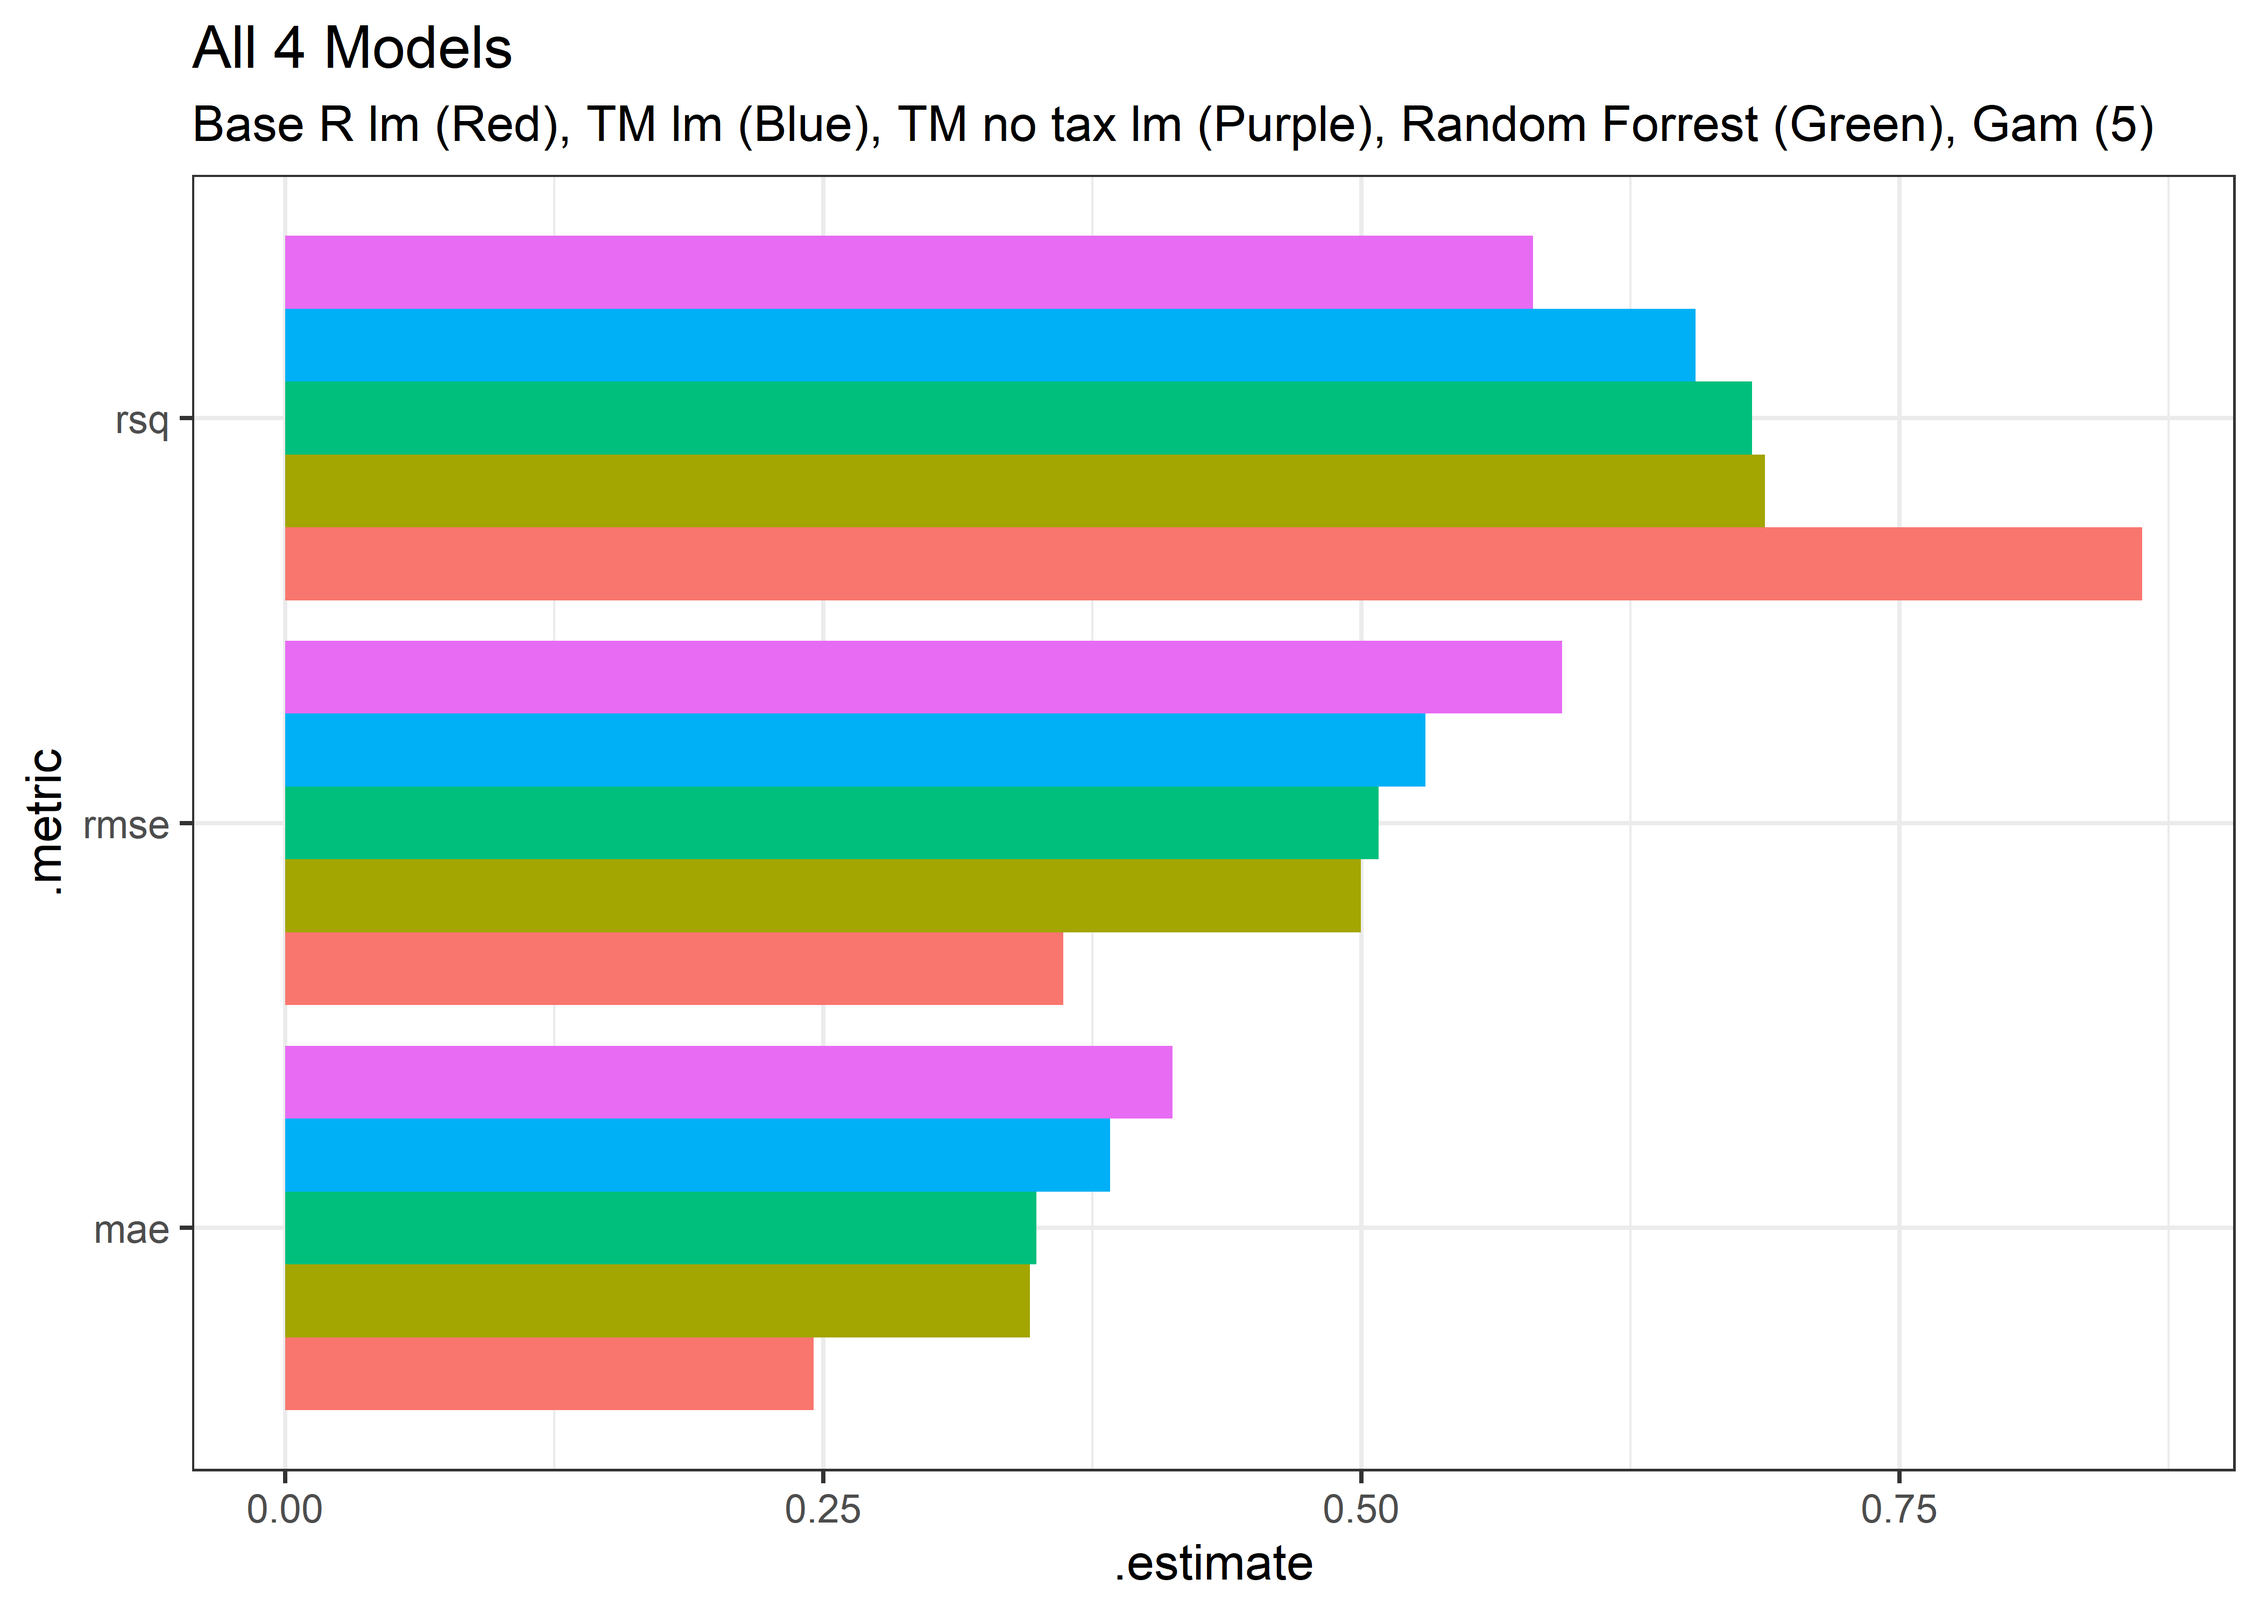
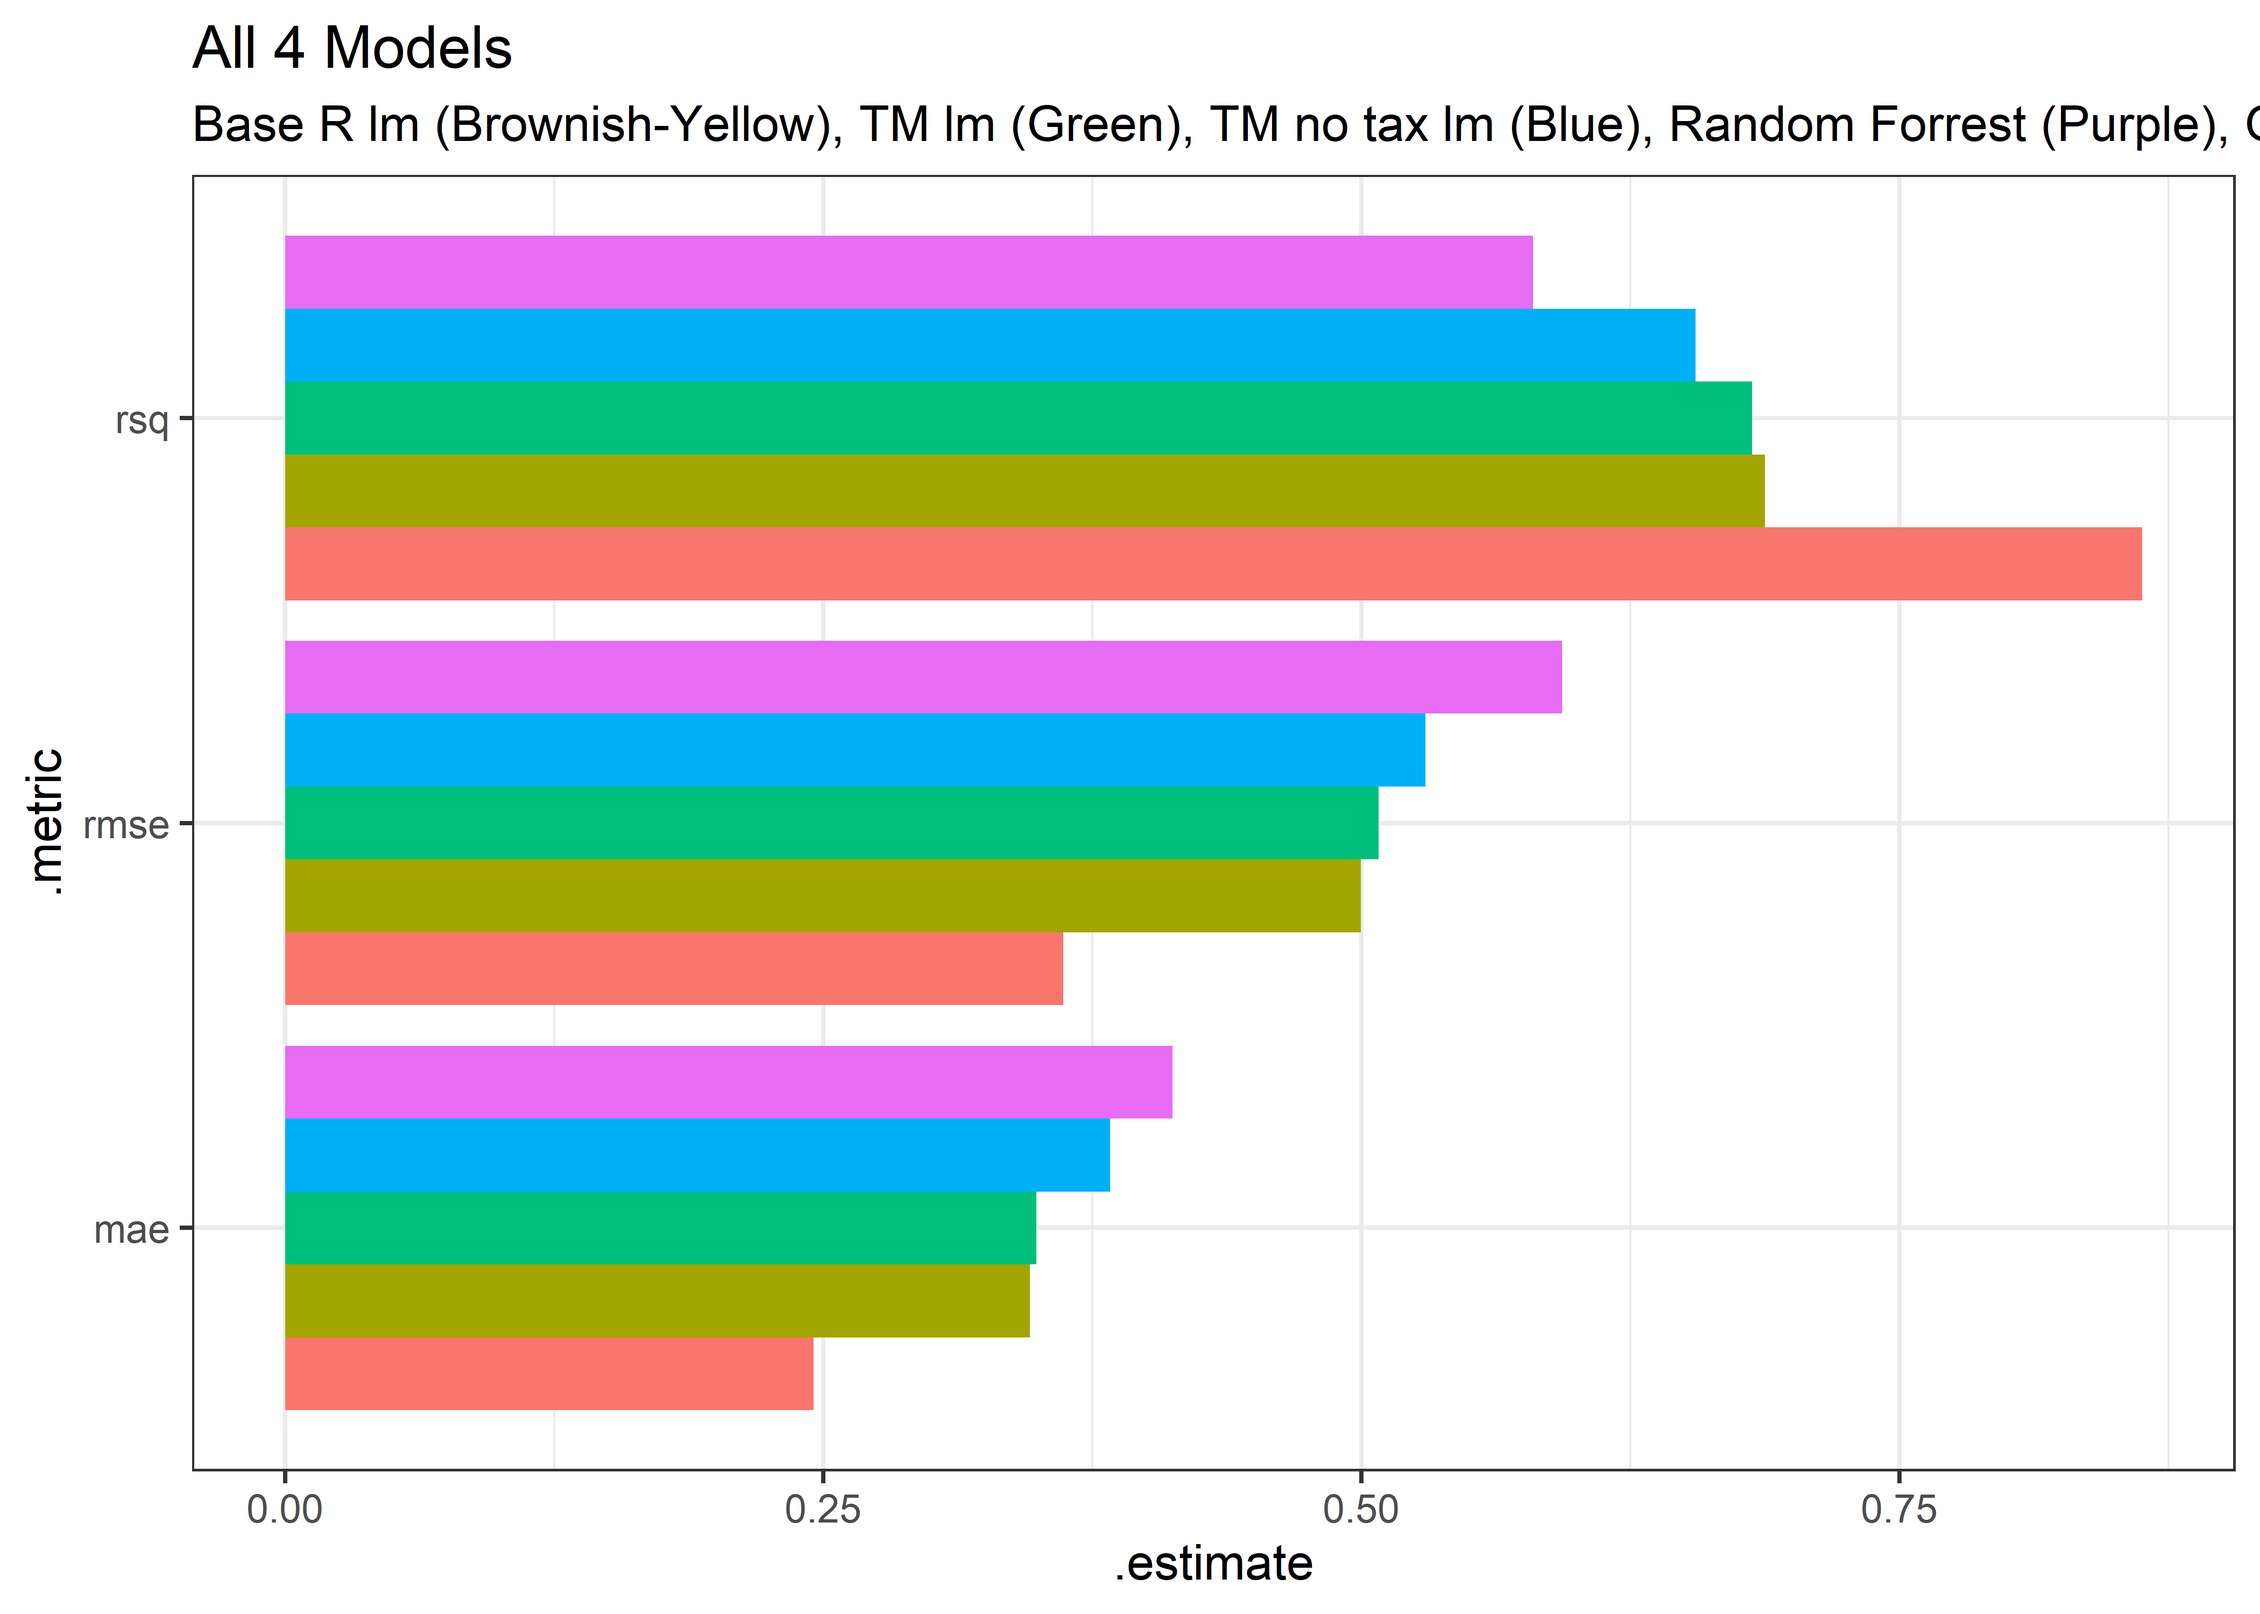
Plot title correction

Changed region(s): [[0.1871, 0.062, 1.0, 0.093]]

diff --git a/NYC House Prices/NYC-House-Prices.md b/NYC House Prices/NYC-House-Prices.md
@@ -838,7 +838,7 @@ all_metrics_rf %>%
   ggplot(aes(.estimate, .metric, fill = fct_reorder(model, .estimate, max, .desc = TRUE))) +
   geom_col(position = "dodge") + 
   labs(title = "All 4 Models", 
-       subtitle = "Base R lm (Red), TM lm (Blue), TM no tax lm (Purple), Random Forrest (Green), Gam (5)") +
+       subtitle = "Base R lm (Brownish-Yellow), TM lm (Green), TM no tax lm (Blue), Random Forrest (Purple), Gam (Red)") +
   theme(legend.position = "none")
 ```
 
